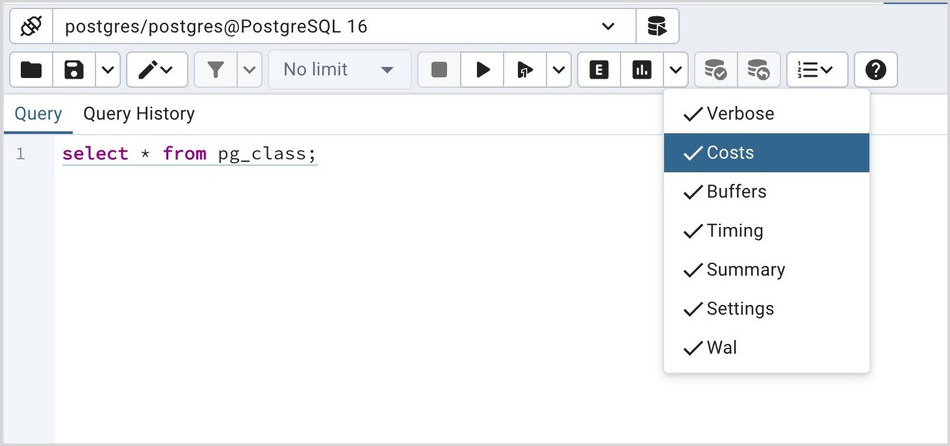
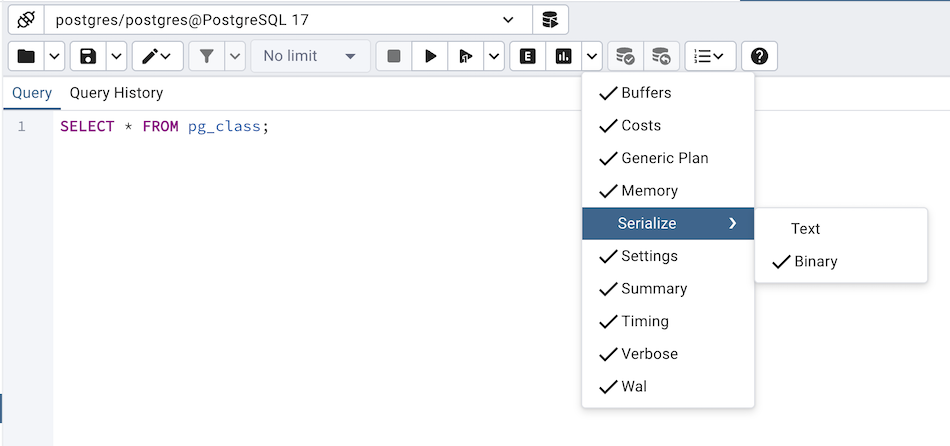
Added GENERIC_PLAN, MEMORY, SERIALIZE option to EXPLAIN/EXPLAIN ANALYZE command. #6456

diff --git a/web/pgadmin/tools/sqleditor/static/js/components/sections/MainToolBar.jsx b/web/pgadmin/tools/sqleditor/static/js/components/sections/MainToolBar.jsx
@@ -21,9 +21,9 @@ import AssessmentRoundedIcon from '@mui/icons-material/AssessmentRounded';
 import ExplicitRoundedIcon from '@mui/icons-material/ExplicitRounded';
 import FormatListNumberedRoundedIcon from '@mui/icons-material/FormatListNumberedRounded';
 import HelpIcon from '@mui/icons-material/HelpRounded';
-import {QUERY_TOOL_EVENTS, CONNECTION_STATUS} from '../QueryToolConstants';
+import {QUERY_TOOL_EVENTS, CONNECTION_STATUS, MODAL_DIALOGS} from '../QueryToolConstants';
 import { QueryToolConnectionContext, QueryToolContext, QueryToolEventsContext } from '../QueryToolComponent';
-import { PgMenu, PgMenuDivider, PgMenuItem, usePgMenuGroup } from '../../../../../../static/js/components/Menu';
+import { PgMenu, PgMenuDivider, PgMenuItem, usePgMenuGroup, PgSubMenu} from '../../../../../../static/js/components/Menu';
 import gettext from 'sources/gettext';
 import { useKeyboardShortcuts } from '../../../../../../static/js/custom_hooks';
 import url_for from 'sources/url_for';
@@ -34,7 +34,6 @@ import CustomPropTypes from '../../../../../../static/js/custom_prop_types';
 import ConfirmTransactionContent from '../dialogs/ConfirmTransactionContent';
 import { LayoutDocker } from '../../../../../../static/js/helpers/Layout';
 import CloseRunningDialog from '../dialogs/CloseRunningDialog';
-import { MODAL_DIALOGS } from '../QueryToolConstants';
 
 const StyledBox = styled(Box)(({theme}) => ({
   padding: '2px 4px',
@@ -114,6 +113,10 @@ export function MainToolBar({containerRef, onFilterClick, onManageMacros, onAddT
       summary: Boolean(checkedMenuItems['explain_summary']),
       settings: Boolean(checkedMenuItems['explain_settings']),
       wal: analyze ? Boolean(checkedMenuItems['explain_wal']) : false,
+      generic_plan: analyze ? false: Boolean(checkedMenuItems['explain_generic_plan']),
+      memory: Boolean(checkedMenuItems['explain_memory']),
+      serialize_binary: analyze ? Boolean(checkedMenuItems['explain_serialize_binary']) : false,
+      serialize_text: analyze ? Boolean(checkedMenuItems['explain_serialize_text']) : false,
     });
   }, [checkedMenuItems]);
 
@@ -136,9 +139,18 @@ export function MainToolBar({containerRef, onFilterClick, onManageMacros, onAddT
             });
           });
       }
+
+      let otherVars = {};
+      if (e.value === 'explain_serialize_binary' && newVal) {
+        otherVars = { 'explain_serialize_text': false };
+      } else if (e.value === 'explain_serialize_text' && newVal) {
+        otherVars = { 'explain_serialize_binary': false };
+      }
+
       return {
         ...prev,
         [e.value]: newVal,
+        ...otherVars,
       };
     });
   }, []);
@@ -274,8 +286,8 @@ export function MainToolBar({containerRef, onFilterClick, onManageMacros, onAddT
   };
   useEffect(()=>{
     if(isInTxn()) {
-      setDisableButton('commit', queryToolCtx.params.server_cursor && !queryToolCtx.params.is_query_tool ? true : false);
-      setDisableButton('rollback', queryToolCtx.params.server_cursor && !queryToolCtx.params.is_query_tool ? true : false);
+      setDisableButton('commit', queryToolCtx.params.server_cursor && !queryToolCtx.params.is_query_tool);
+      setDisableButton('rollback', queryToolCtx.params.server_cursor && !queryToolCtx.params.is_query_tool);
       setDisableButton('execute-options', true);
     } else {
       setDisableButton('commit', true);
@@ -347,6 +359,8 @@ export function MainToolBar({containerRef, onFilterClick, onManageMacros, onAddT
           explain_summary: queryToolPref.explain_summary,
           explain_settings: queryToolPref.explain_settings,
           explain_wal: queryToolPref.explain_wal,
+          explain_generic_plan: queryToolPref.explain_generic_plan,
+          explain_memory: queryToolPref.explain_memory,
           open_in_new_tab: queryToolPref.open_in_new_tab,
           server_cursor: queryToolPref.server_cursor,
         });
@@ -645,18 +659,28 @@ export function MainToolBar({containerRef, onFilterClick, onManageMacros, onAddT
         onClose={onMenuClose}
         label={gettext('Explain Options Menu')}
       >
-        <PgMenuItem hasCheck value="explain_verbose" checked={checkedMenuItems['explain_verbose']}
-          onClick={checkMenuClick}>{gettext('Verbose')}</PgMenuItem>
-        <PgMenuItem hasCheck value="explain_costs" checked={checkedMenuItems['explain_costs']}
-          onClick={checkMenuClick}>{gettext('Costs')}</PgMenuItem>
         <PgMenuItem hasCheck value="explain_buffers" checked={checkedMenuItems['explain_buffers']}
           onClick={checkMenuClick}>{gettext('Buffers')}</PgMenuItem>
-        <PgMenuItem hasCheck value="explain_timing" checked={checkedMenuItems['explain_timing']}
-          onClick={checkMenuClick}>{gettext('Timing')}</PgMenuItem>
-        <PgMenuItem hasCheck value="explain_summary" checked={checkedMenuItems['explain_summary']}
-          onClick={checkMenuClick}>{gettext('Summary')}</PgMenuItem>
+        <PgMenuItem hasCheck value="explain_costs" checked={checkedMenuItems['explain_costs']}
+          onClick={checkMenuClick}>{gettext('Costs')}</PgMenuItem>
+        <PgMenuItem hasCheck value="explain_generic_plan" checked={checkedMenuItems['explain_generic_plan']}
+          onClick={checkMenuClick}>{gettext('Generic Plan')}</PgMenuItem>
+        <PgMenuItem hasCheck value="explain_memory" checked={checkedMenuItems['explain_memory']}
+          onClick={checkMenuClick}>{gettext('Memory')}</PgMenuItem>
+        <PgSubMenu alignCheck key="SERIALIZE" label={gettext('Serialize')}>
+          <PgMenuItem hasCheck value="explain_serialize_text" checked={checkedMenuItems['explain_serialize_text']}
+            onClick={checkMenuClick}>{gettext('Text')}</PgMenuItem>
+          <PgMenuItem hasCheck value="explain_serialize_binary" checked={checkedMenuItems['explain_serialize_binary']}
+            onClick={checkMenuClick}>{gettext('Binary')}</PgMenuItem>
+        </PgSubMenu>
         <PgMenuItem hasCheck value="explain_settings" checked={checkedMenuItems['explain_settings']}
           onClick={checkMenuClick}>{gettext('Settings')}</PgMenuItem>
+        <PgMenuItem hasCheck value="explain_summary" checked={checkedMenuItems['explain_summary']}
+          onClick={checkMenuClick}>{gettext('Summary')}</PgMenuItem>
+        <PgMenuItem hasCheck value="explain_timing" checked={checkedMenuItems['explain_timing']}
+          onClick={checkMenuClick}>{gettext('Timing')}</PgMenuItem>
+        <PgMenuItem hasCheck value="explain_verbose" checked={checkedMenuItems['explain_verbose']}
+          onClick={checkMenuClick}>{gettext('Verbose')}</PgMenuItem>
         <PgMenuItem hasCheck value="explain_wal" checked={checkedMenuItems['explain_wal']}
           onClick={checkMenuClick}>{gettext('Wal')}</PgMenuItem>
       </PgMenu>

diff --git a/web/pgadmin/static/js/components/Menu.jsx b/web/pgadmin/static/js/components/Menu.jsx
@@ -57,14 +57,18 @@ PgMenu.propTypes = {
   menuButton: PropTypes.element,
 };
 
-export const PgSubMenu = (({label, ...props})=>{
+export const PgSubMenu = (({label, alignCheck, ...props})=>{
+  if(alignCheck) {
+    label = <><CheckIcon style={{visibility: 'hidden', width: '1.3rem'}} data-label="CheckIcon"/>{label}</>;
+  }
   return (
     <SubMenu label={label}  itemProps={{'data-label': label}} {...props} />
   );
 });
 
 PgSubMenu.propTypes = {
-  label: PropTypes.string
+  label: PropTypes.string,
+  alignCheck: PropTypes.bool
 };
 
 export const PgMenuItem = (({hasCheck=false, checked=false, accesskey, shortcut, children, closeOnCheck=false, ...props})=>{

diff --git a/web/pgadmin/tools/sqleditor/__init__.py b/web/pgadmin/tools/sqleditor/__init__.py
@@ -915,7 +915,7 @@ def start_view_data(trans_id):
             if response is not None:
                 return response
 
-        status, msg = default_conn.connect()
+        status, _ = default_conn.connect()
         if not status:
             return service_unavailable(
                 gettext("Connection to the server has been lost."),
@@ -1535,7 +1535,7 @@ def save(trans_id):
             if response is not None:
                 return response
 
-        is_error, errmsg, conn = _check_and_connect(trans_obj)
+        is_error, _, conn = _check_and_connect(trans_obj)
         if is_error:
             return service_unavailable(
                 gettext("Connection to the server has been lost."),

diff --git a/web/pgadmin/tools/sqleditor/utils/query_tool_preferences.py b/web/pgadmin/tools/sqleditor/utils/query_tool_preferences.py
@@ -60,6 +60,18 @@ def register_query_tool_preferences(self):
         category_label=PREF_LABEL_EXPLAIN
     )
 
+    self.explain_generic_plan = self.preference.register(
+        'Explain', 'explain_generic_plan',
+        gettext("Show generic plan?"), 'boolean', False,
+        category_label=PREF_LABEL_EXPLAIN
+    )
+
+    self.explain_memory = self.preference.register(
+        'Explain', 'explain_memory',
+        gettext("Show memory?"), 'boolean', False,
+        category_label=PREF_LABEL_EXPLAIN
+    )
+
     self.auto_commit = self.preference.register(
         'Options', 'auto_commit',
         gettext("Auto commit?"), 'boolean', True,

diff --git a/docs/en_US/query_tool_toolbar.rst b/docs/en_US/query_tool_toolbar.rst
@@ -140,20 +140,27 @@ Query Execution
    |                      |                                                                                                   |                |
    |                      | Navigate through the *Explain Options* menu to select options for the EXPLAIN command:            |                |
    |                      |                                                                                                   |                |
-   |                      |  * Select *Verbose* to display additional information regarding the query plan.                   |                |
+   |                      |  * Select *Buffers* to include information on buffer usage.                                       |                |
    |                      |                                                                                                   |                |
    |                      |  * Select *Costs* to include information on the estimated startup and total cost of each          |                |
    |                      |    plan node, as well as the estimated number of rows and the estimated width of each             |                |
    |                      |    row.                                                                                           |                |
    |                      |                                                                                                   |                |
-   |                      |  * Select *Buffers* to include information on buffer usage.                                       |                |
+   |                      |  * Select *Generic Plan* to include the information on the Generic Plan.                          |                |
+   |                      |                                                                                                   |                |
+   |                      |  * Select *Memory* to include the information on memory consumption by the query planning phase.  |                |
+   |                      |                                                                                                   |                |
+   |                      |  * Select *Serialize* to include information on the cost of serializing the query's output data,  |                |
+   |                      |    that is converting it to text or binary format to send to the client.                          |                |
+   |                      |                                                                                                   |                |
+   |                      |  * Select *Settings* to include the information on the configuration parameters.                  |                |
+   |                      |                                                                                                   |                |
+   |                      |  * Select *Summary* to include the summary information about the query plan.                      |                |
    |                      |                                                                                                   |                |
    |                      |  * Select *Timing* to include information about the startup time and the amount of time           |                |
    |                      |    spent in each node of the query.                                                               |                |
    |                      |                                                                                                   |                |
-   |                      |  * Select *Summary* to include the summary information about the query plan.                      |                |
-   |                      |                                                                                                   |                |
-   |                      |  * Select *Settings* to include the information on the configuration parameters.                  |                |
+   |                      |  * Select *Verbose* to display additional information regarding the query plan.                   |                |
    |                      |                                                                                                   |                |
    |                      |  * Select *Wal* to include the information on WAL record generation.                              |                |
    +----------------------+---------------------------------------------------------------------------------------------------+----------------+

diff --git a/docs/en_US/release_notes_9_7.rst b/docs/en_US/release_notes_9_7.rst
@@ -20,6 +20,9 @@ Bundled PostgreSQL Utilities
 New features
 ************
 
+  | `Issue #5766 <https://github.com/pgadmin-org/pgadmin4/issues/5766>`_ -  Add support for automatic updates in the pgAdmin 4 Desktop application on macOS.
+  | `Issue #6456 <https://github.com/pgadmin-org/pgadmin4/issues/6456>`_ -  Added GENERIC_PLAN, MEMORY, SERIALIZE option to EXPLAIN/EXPLAIN ANALYZE command.
+  | `Issue #8917 <https://github.com/pgadmin-org/pgadmin4/issues/8917>`_ -  Add support for server tag-based filtering in the Object Explorer.
 
 Housekeeping
 ************
@@ -30,7 +33,11 @@ Housekeeping
 Bug fixes
 *********
 
+  | `Issue #8149 <https://github.com/pgadmin-org/pgadmin4/issues/8149>`_ -  Fixed an issue where pgAdmin failed to update the server connection status when the server was disconnected in the background and a refresh was performed on that server.
   | `Issue #8650 <https://github.com/pgadmin-org/pgadmin4/issues/8650>`_ -  Make Dashboard tables to be vertically resizable.
   | `Issue #8756 <https://github.com/pgadmin-org/pgadmin4/issues/8756>`_ -  Fixed an issue in Firefox where the query window would shift to the left after opening the history tab or selecting a column header in the results grid.
   | `Issue #8867 <https://github.com/pgadmin-org/pgadmin4/issues/8867>`_ -  Ensure DB restriction type is preserved while import and export server.
   | `Issue #8969 <https://github.com/pgadmin-org/pgadmin4/issues/8969>`_ -  Fixed incorrect behaviour of the option deduplicate items after creating the index.
+  | `Issue #8971 <https://github.com/pgadmin-org/pgadmin4/issues/8971>`_ -  Added PKEY index in the index statistics summary.
+  | `Issue #9007 <https://github.com/pgadmin-org/pgadmin4/issues/9007>`_ -  Ensure the scratch pad in the Query Tool is not restored after it is closed.
+  | `Issue #9008 <https://github.com/pgadmin-org/pgadmin4/issues/9008>`_ -  Update the documentation for parameters that require file paths.
